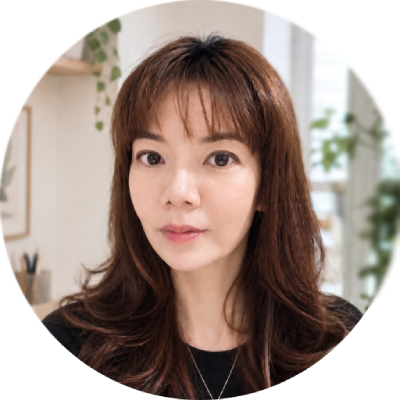
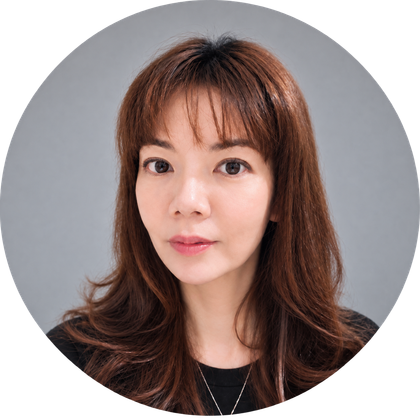
更新網站內容（後台）

diff --git a/free.html b/free.html
@@ -7,12 +7,12 @@
 <meta name="description" content="免費下載：別把錢花成麻煩｜線上閱讀、別把錢花成麻煩｜PDF 收藏版、購買前七問檢核卡、七天失準消費紀錄表、一週行動清單、內政部｜室內裝修契約書範本、內政部｜合法室內裝修業者查詢、司法院裁判書查詢系統。">
 <link rel="canonical" href="https://www.phyllis.tw/free.html">
 <meta property="og:title" content="免費資源—Phyllis｜零雜物">
-<meta property="og:image" content="https://www.phyllis.tw/assets/ebook/cover-3d.png">
-<link rel="icon" href="/assets/favicon.png" type="image/png">
+<meta property="og:image" content="https://www.phyllis.tw/assets/ebook/cover-3d.png?v=68105ba0">
+<link rel="icon" href="/assets/favicon.png?v=b5234415" type="image/png">
 <link rel="preconnect" href="https://fonts.googleapis.com">
 <link rel="preconnect" href="https://fonts.gstatic.com" crossorigin>
 <link href="https://fonts.googleapis.com/css2?family=Noto+Sans+TC:wght@400;500;700&display=swap" rel="stylesheet">
-<link rel="stylesheet" href="/assets/style.css">
+<link rel="stylesheet" href="/assets/style.css?v=52d6ad18">
 </head>
 <body>
 
@@ -48,7 +48,7 @@
     <p class="free-intro">如果你也想讓家裡少一點雜物、讓生活少一點麻煩，多留一點錢給真正重要的事，這本書就是寫給你的。</p>
 
     <div class="card feat-card">
-      <div class="feat-cover"><img src="/assets/ebook/cover-3d.png" alt="《別把錢花成麻煩》書封"></div>
+      <div class="feat-cover"><img src="/assets/ebook/cover-3d.png?v=68105ba0" alt="《別把錢花成麻煩》書封"></div>
       <div class="feat-body">
         <div class="feat-row">
           <div class="dl-info">
@@ -70,28 +70,28 @@
     <p class="free-intro" style="margin-top:40px;">讀完《別把錢花成麻煩》後，如果想把書中的方法繼續用在生活裡，這裡整理了一些實用的延伸資源：</p>
 
     <div class="card feat-card">
-      <div class="feat-cover"><img src="/assets/free-tools.jpg" alt="消費檢核工具示意插畫：檢核清單、七天記錄本、寫字板與錢包零錢"></div>
+      <div class="feat-cover"><img src="/assets/free-tools.jpg?v=2bf9ef14" alt="消費檢核工具示意插畫：檢核清單、七天記錄本、寫字板與錢包零錢"></div>
       <div class="feat-body">
         <div class="feat-row">
           <div class="dl-info">
             <h3>購買前七問檢核卡</h3>
             <p>下單前用七個問題快速檢查，看看這筆消費是真的需要，還是只是當下很想買</p>
           </div>
-          <a class="btn btn-secondary" href="/assets/7q-card.jpg" download>下載檢核卡</a>
+          <a class="btn btn-secondary" href="/assets/7q-card.jpg?v=cfbae059" download>下載檢核卡</a>
         </div>
         <div class="feat-row">
           <div class="dl-info">
             <h3>七天失準消費紀錄表</h3>
             <p>連續記錄七天非必要消費，看見自己最容易花錯錢的情境與原因</p>
           </div>
-          <a class="btn btn-secondary" href="/assets/七天失準消費紀錄表_可填寫.pdf" download>下載紀錄表</a>
+          <a class="btn btn-secondary" href="/assets/七天失準消費紀錄表_可填寫.pdf?v=b5bcd12b" download>下載紀錄表</a>
         </div>
         <div class="feat-row">
           <div class="dl-info">
             <h3>一週行動清單</h3>
             <p>每天完成一個小行動，用七天調整容易讓錢流出去的消費習慣</p>
           </div>
-          <a class="btn btn-secondary" href="/assets/7d-list.jpg" download>下載行動清單</a>
+          <a class="btn btn-secondary" href="/assets/7d-list.jpg?v=331cf7b2" download>下載行動清單</a>
         </div>
       </div>
     </div>
@@ -99,7 +99,7 @@
 
 
     <div class="card feat-card">
-      <div class="feat-cover"><img src="/assets/free-tools-2.jpg" alt="裝修查證工具示意插畫：室內平面圖、色卡、捲尺與放大鏡檢視的檢核清單"></div>
+      <div class="feat-cover"><img src="/assets/free-tools-2.jpg?v=dc9ee5ba" alt="裝修查證工具示意插畫：室內平面圖、色卡、捲尺與放大鏡檢視的檢核清單"></div>
       <div class="feat-body">
         <div class="feat-row">
           <div class="dl-info">
@@ -140,7 +140,7 @@
   </div>
 </footer>
 
-<script src="/assets/utm-forward.js" defer></script>
+<script src="/assets/utm-forward.js?v=20bbbfbf" defer></script>
 
 </body>
 </html>

diff --git a/video.html b/video.html
@@ -7,12 +7,12 @@
 <meta name="description" content="Phyllis 歷年參與的電視、網路節目與訪談影音記錄。">
 <link rel="canonical" href="https://www.phyllis.tw/video.html">
 <meta property="og:title" content="節目影音—Phyllis｜零雜物">
-<meta property="og:image" content="https://www.phyllis.tw/assets/video-organize.jpg">
-<link rel="icon" href="/assets/favicon.png" type="image/png">
+<meta property="og:image" content="https://www.phyllis.tw/assets/video-organize.jpg?v=d938d44d">
+<link rel="icon" href="/assets/favicon.png?v=b5234415" type="image/png">
 <link rel="preconnect" href="https://fonts.googleapis.com">
 <link rel="preconnect" href="https://fonts.gstatic.com" crossorigin>
 <link href="https://fonts.googleapis.com/css2?family=Noto+Sans+TC:wght@400;500;700&display=swap" rel="stylesheet">
-<link rel="stylesheet" href="/assets/style.css">
+<link rel="stylesheet" href="/assets/style.css?v=52d6ad18">
 <style>
 /* 左側是主題（插圖＋名稱＋集數），右側是節目清單。
    左欄 sticky：整理有 25 集、其他只有 3 集，不黏住的話長區塊左側會留一大片空白。 */
@@ -80,7 +80,7 @@
   <div class="container">
     <section class="topic" id="topic-organize">
       <div class="topic-side">
-        <div class="topic-cover"><img src="/assets/video-organize.jpg" alt="整理示意插圖" loading="lazy"></div>
+        <div class="topic-cover"><img src="/assets/video-organize.jpg?v=d938d44d" alt="整理示意插圖" loading="lazy"></div>
         <h2>整理</h2>
         <span class="topic-count">25 集</span>
       </div>
@@ -227,7 +227,7 @@
 
     <section class="topic" id="topic-reno">
       <div class="topic-side">
-        <div class="topic-cover"><img src="/assets/video-reno.jpg" alt="" loading="lazy"></div>
+        <div class="topic-cover"><img src="/assets/video-reno.jpg?v=1a90bd84" alt="" loading="lazy"></div>
         <h2>裝修</h2>
         <span class="topic-count">16 集</span>
       </div>
@@ -325,7 +325,7 @@
 
     <section class="topic" id="topic-money">
       <div class="topic-side">
-        <div class="topic-cover"><img src="/assets/video-money.jpg" alt="" loading="lazy"></div>
+        <div class="topic-cover"><img src="/assets/video-money.jpg?v=674c528a" alt="" loading="lazy"></div>
         <h2>金錢消費</h2>
         <span class="topic-count">6 集</span>
       </div>
@@ -373,7 +373,7 @@
 
     <section class="topic" id="topic-hoard">
       <div class="topic-side">
-        <div class="topic-cover"><img src="/assets/video-hoarding.jpg" alt="" loading="lazy"></div>
+        <div class="topic-cover"><img src="/assets/video-hoarding.jpg?v=8eb8291f" alt="" loading="lazy"></div>
         <h2>囤積</h2>
         <span class="topic-count">8 集</span>
       </div>
@@ -439,7 +439,7 @@
 
     <section class="topic" id="topic-other">
       <div class="topic-side">
-        <div class="topic-cover"><img src="/assets/video-other.jpg" alt="" loading="lazy"></div>
+        <div class="topic-cover"><img src="/assets/video-other.jpg?v=f6a7241d" alt="" loading="lazy"></div>
         <h2>其他</h2>
         <span class="topic-count">3 集</span>
       </div>
@@ -480,7 +480,7 @@
   </div>
 </footer>
 
-<script src="/assets/utm-forward.js" defer></script>
+<script src="/assets/utm-forward.js?v=20bbbfbf" defer></script>
 
 </body>
 </html>

diff --git a/index.html b/index.html
@@ -9,12 +9,12 @@
 <meta property="og:title" content="Phyllis｜零雜物">
 <meta property="og:description" content="從居家整理到設計裝修，Phyllis 透過著作、線上課程與實戰系統，分享多年累積的觀念與方法。">
 <meta property="og:url" content="https://www.phyllis.tw/">
-<meta property="og:image" content="https://www.phyllis.tw/assets/phyllis-avatar.png">
-<link rel="icon" href="/assets/favicon.png" type="image/png">
+<meta property="og:image" content="https://www.phyllis.tw/assets/phyllis-avatar.png?v=4add6477">
+<link rel="icon" href="/assets/favicon.png?v=b5234415" type="image/png">
 <link rel="preconnect" href="https://fonts.googleapis.com">
 <link rel="preconnect" href="https://fonts.gstatic.com" crossorigin>
 <link href="https://fonts.googleapis.com/css2?family=Noto+Sans+TC:wght@400;500;700&display=swap" rel="stylesheet">
-<link rel="stylesheet" href="/assets/style.css">
+<link rel="stylesheet" href="/assets/style.css?v=52d6ad18">
 </head>
 <body>
 
@@ -48,7 +48,7 @@
       </ul>
     </div>
     <div class="hero-avatar">
-      <img src="/assets/phyllis-avatar.png" alt="Phyllis 個人照">
+      <img src="/assets/phyllis-avatar.png?v=4add6477" alt="Phyllis 個人照">
     </div>
   </div>
 </section>
@@ -57,7 +57,7 @@
   <div class="container">
     <div class="card-grid cols-2">
       <div class="card feature-card">
-        <div class="feature-cover"><img src="/assets/feature-school.jpg" alt="零雜物居家整理實戰系統課程主圖" loading="lazy"></div>
+        <div class="feature-cover"><img src="/assets/feature-school.jpg?v=71440462" alt="零雜物居家整理實戰系統課程主圖" loading="lazy"></div>
         <div class="feature-body">
           <h3>零雜物居家整理實戰系統</h3>
           <p>把居家整理拆成 14 個實戰任務，搭配 30 天陪跑與回饋機制，帶你照著順序動手，把家的秩序與美感整理回來。</p>
@@ -65,7 +65,7 @@
         </div>
       </div>
       <div class="card feature-card">
-        <div class="feature-cover"><img src="/assets/feature-ebook.jpg" alt="免費電子書《別把錢花成麻煩》" loading="lazy"></div>
+        <div class="feature-cover"><img src="/assets/feature-ebook.jpg?v=f6945cef" alt="免費電子書《別把錢花成麻煩》" loading="lazy"></div>
         <div class="feature-body">
           <h3>免費電子書《別把錢花成麻煩》</h3>
           <p>從每天怎麼花錢出發，帶你看懂消費如何變成雜物與麻煩，也重新檢查哪些支出真的值得。</p>
@@ -110,7 +110,7 @@
   </div>
 </footer>
 
-<script src="/assets/utm-forward.js" defer></script>
+<script src="/assets/utm-forward.js?v=20bbbfbf" defer></script>
 
 </body>
 </html>

diff --git a/courses.html b/courses.html
@@ -7,12 +7,12 @@
 <meta name="description" content="Phyllis 的線上課程：打造省錢理想風格宅、無痛居家整理學、簡單又清爽！打造個人簡約生活空間，無限次重複觀看。">
 <link rel="canonical" href="https://www.phyllis.tw/courses.html">
 <meta property="og:title" content="線上課程—Phyllis｜零雜物">
-<meta property="og:image" content="https://www.phyllis.tw/assets/school-cover.png">
-<link rel="icon" href="/assets/favicon.png" type="image/png">
+<meta property="og:image" content="https://www.phyllis.tw/assets/school-cover.png?v=9426f7c3">
+<link rel="icon" href="/assets/favicon.png?v=b5234415" type="image/png">
 <link rel="preconnect" href="https://fonts.googleapis.com">
 <link rel="preconnect" href="https://fonts.gstatic.com" crossorigin>
 <link href="https://fonts.googleapis.com/css2?family=Noto+Sans+TC:wght@400;500;700&display=swap" rel="stylesheet">
-<link rel="stylesheet" href="/assets/style.css">
+<link rel="stylesheet" href="/assets/style.css?v=52d6ad18">
 </head>
 <body>
 
@@ -43,7 +43,7 @@
 
     <div class="card course-card" id="school">
       <div class="cover">
-        <img src="/assets/school-cover.png" alt="零雜物居家整理實戰系統課程主圖">
+        <img src="/assets/school-cover.png?v=9426f7c3" alt="零雜物居家整理實戰系統課程主圖">
       </div>
       <div>
         <span class="badge">2026 年 · Declutter School</span>
@@ -56,7 +56,7 @@
 
     <div class="card course-card" id="reno">
       <div class="cover">
-        <img src="/assets/course-reno-cover.jpg" alt="裝修設計課課程封面">
+        <img src="/assets/course-reno-cover.jpg?v=2e12b396" alt="裝修設計課課程封面">
       </div>
       <div>
         <span class="badge">2025 年 · Hahow</span>
@@ -69,7 +69,7 @@
 
     <div class="card course-card" id="organize">
       <div class="cover">
-        <img src="/assets/course-organize-cover.jpg" alt="無痛居家整理學課程封面">
+        <img src="/assets/course-organize-cover.jpg?v=4694e692" alt="無痛居家整理學課程封面">
       </div>
       <div>
         <span class="badge">2024 年· 知識衛星</span>
@@ -82,7 +82,7 @@
 
     <div class="card course-card" id="simple">
       <div class="cover">
-        <img src="/assets/course-simple-cover.jpg" alt="簡約生活心得課程封面">
+        <img src="/assets/course-simple-cover.jpg?v=6bfa1c81" alt="簡約生活心得課程封面">
       </div>
       <div>
         <span class="badge">2020 年 · PressPlay</span>
@@ -108,7 +108,7 @@
   </div>
 </footer>
 
-<script src="/assets/utm-forward.js" defer></script>
+<script src="/assets/utm-forward.js?v=20bbbfbf" defer></script>
 
 </body>
 </html>

diff --git a/books.html b/books.html
@@ -7,12 +7,12 @@
 <meta name="description" content="Phyllis 的著作：《當整理卡關時》、《零雜物裝修術》、《囤積解密》、《零雜物》。">
 <link rel="canonical" href="https://www.phyllis.tw/books.html">
 <meta property="og:title" content="著作—Phyllis｜零雜物">
-<meta property="og:image" content="https://www.phyllis.tw/assets/book-stuck-3d.png">
-<link rel="icon" href="/assets/favicon.png" type="image/png">
+<meta property="og:image" content="https://www.phyllis.tw/assets/book-stuck-3d.png?v=8cc8c8dc">
+<link rel="icon" href="/assets/favicon.png?v=b5234415" type="image/png">
 <link rel="preconnect" href="https://fonts.googleapis.com">
 <link rel="preconnect" href="https://fonts.gstatic.com" crossorigin>
 <link href="https://fonts.googleapis.com/css2?family=Noto+Sans+TC:wght@400;500;700&display=swap" rel="stylesheet">
-<link rel="stylesheet" href="/assets/style.css">
+<link rel="stylesheet" href="/assets/style.css?v=52d6ad18">
 </head>
 <body>
 
@@ -44,7 +44,7 @@
 
       <div class="card book-card">
         <div class="cover">
-          <img src="/assets/book-stuck-3d.png" alt="《當整理卡關時》書封">
+          <img src="/assets/book-stuck-3d.png?v=8cc8c8dc" alt="《當整理卡關時》書封">
         </div>
         <h3>《當整理卡關時》</h3>
         <p class="meta">2024/4</p>
@@ -54,7 +54,7 @@
 
       <div class="card book-card">
         <div class="cover">
-          <img src="/assets/book-reno-3d.png" alt="《零雜物裝修術》書封">
+          <img src="/assets/book-reno-3d.png?v=4597e1c2" alt="《零雜物裝修術》書封">
         </div>
         <h3>《零雜物裝修術》</h3>
         <p class="meta">2019/12</p>
@@ -64,7 +64,7 @@
 
       <div class="card book-card">
         <div class="cover">
-          <img src="/assets/book-hoarding-3d.png" alt="《囤積解密》書封">
+          <img src="/assets/book-hoarding-3d.png?v=b78bf934" alt="《囤積解密》書封">
         </div>
         <h3>《囤積解密》</h3>
         <p class="meta">2015/04</p>
@@ -74,7 +74,7 @@
 
       <div class="card book-card">
         <div class="cover">
-          <img src="/assets/book-zero-3d.png" alt="《零雜物》書封">
+          <img src="/assets/book-zero-3d.png?v=c509f249" alt="《零雜物》書封">
         </div>
         <h3>《零雜物》</h3>
         <p class="meta">2012/05</p>
@@ -98,7 +98,7 @@
   </div>
 </footer>
 
-<script src="/assets/utm-forward.js" defer></script>
+<script src="/assets/utm-forward.js?v=20bbbfbf" defer></script>
 
 </body>
 </html>

diff --git a/contact.html b/contact.html
@@ -7,12 +7,12 @@
 <meta name="description" content="聯絡 Phyllis：合作需求請來信洽詢。">
 <link rel="canonical" href="https://www.phyllis.tw/contact.html">
 <meta property="og:title" content="聯絡—Phyllis｜零雜物">
-<meta property="og:image" content="https://www.phyllis.tw/assets/contact.jpg">
-<link rel="icon" href="/assets/favicon.png" type="image/png">
+<meta property="og:image" content="https://www.phyllis.tw/assets/contact.jpg?v=88a93140">
+<link rel="icon" href="/assets/favicon.png?v=b5234415" type="image/png">
 <link rel="preconnect" href="https://fonts.googleapis.com">
 <link rel="preconnect" href="https://fonts.gstatic.com" crossorigin>
 <link href="https://fonts.googleapis.com/css2?family=Noto+Sans+TC:wght@400;500;700&display=swap" rel="stylesheet">
-<link rel="stylesheet" href="/assets/style.css">
+<link rel="stylesheet" href="/assets/style.css?v=52d6ad18">
 </head>
 <body>
 
@@ -42,7 +42,7 @@
   <div class="container">
     <div class="card-grid cols-2">
       <div class="hero-photo" style="height:100%;">
-        <img src="/assets/contact.jpg" alt="居家空間照片" style="width:100%; height:100%; object-fit:cover;">
+        <img src="/assets/contact.jpg?v=88a93140" alt="居家空間照片" style="width:100%; height:100%; object-fit:cover;">
       </div>
       <div class="card" style="display:flex; flex-direction:column; justify-content:center;">
         <p>Phyllis 目前已不接到府整理案、室內設計案與演講。若有其他合作需求，請寫信至 <a id="mail-link" href="#">（請啟用 JavaScript 顯示信箱）</a>，謝謝。</p>
@@ -63,7 +63,7 @@
   </div>
 </footer>
 
-<script src="/assets/utm-forward.js" defer></script>
+<script src="/assets/utm-forward.js?v=20bbbfbf" defer></script>
 
 <script>
 (function () {

diff --git a/about.html b/about.html
@@ -7,12 +7,12 @@
 <meta name="description" content="Phyllis：室內設計師、專業整理師、作家、講師。國家證照、專業資格、著作與媒體專訪一覽。">
 <link rel="canonical" href="https://www.phyllis.tw/about.html">
 <meta property="og:title" content="關於—Phyllis｜零雜物">
-<meta property="og:image" content="https://www.phyllis.tw/assets/phyllis-avatar.png">
-<link rel="icon" href="/assets/favicon.png" type="image/png">
+<meta property="og:image" content="https://www.phyllis.tw/assets/phyllis-avatar.png?v=4add6477">
+<link rel="icon" href="/assets/favicon.png?v=b5234415" type="image/png">
 <link rel="preconnect" href="https://fonts.googleapis.com">
 <link rel="preconnect" href="https://fonts.gstatic.com" crossorigin>
 <link href="https://fonts.googleapis.com/css2?family=Noto+Sans+TC:wght@400;500;700&display=swap" rel="stylesheet">
-<link rel="stylesheet" href="/assets/style.css">
+<link rel="stylesheet" href="/assets/style.css?v=52d6ad18">
 </head>
 <body>
 
@@ -51,7 +51,7 @@
         </ul>
       </div>
       <div class="hero-avatar">
-        <img src="/assets/phyllis-avatar.png" alt="Phyllis 個人照">
+        <img src="/assets/phyllis-avatar.png?v=4add6477" alt="Phyllis 個人照">
       </div>
     </div>
   </div>
@@ -209,7 +209,7 @@
   </div>
 </footer>
 
-<script src="/assets/utm-forward.js" defer></script>
+<script src="/assets/utm-forward.js?v=20bbbfbf" defer></script>
 
 </body>
 </html>
